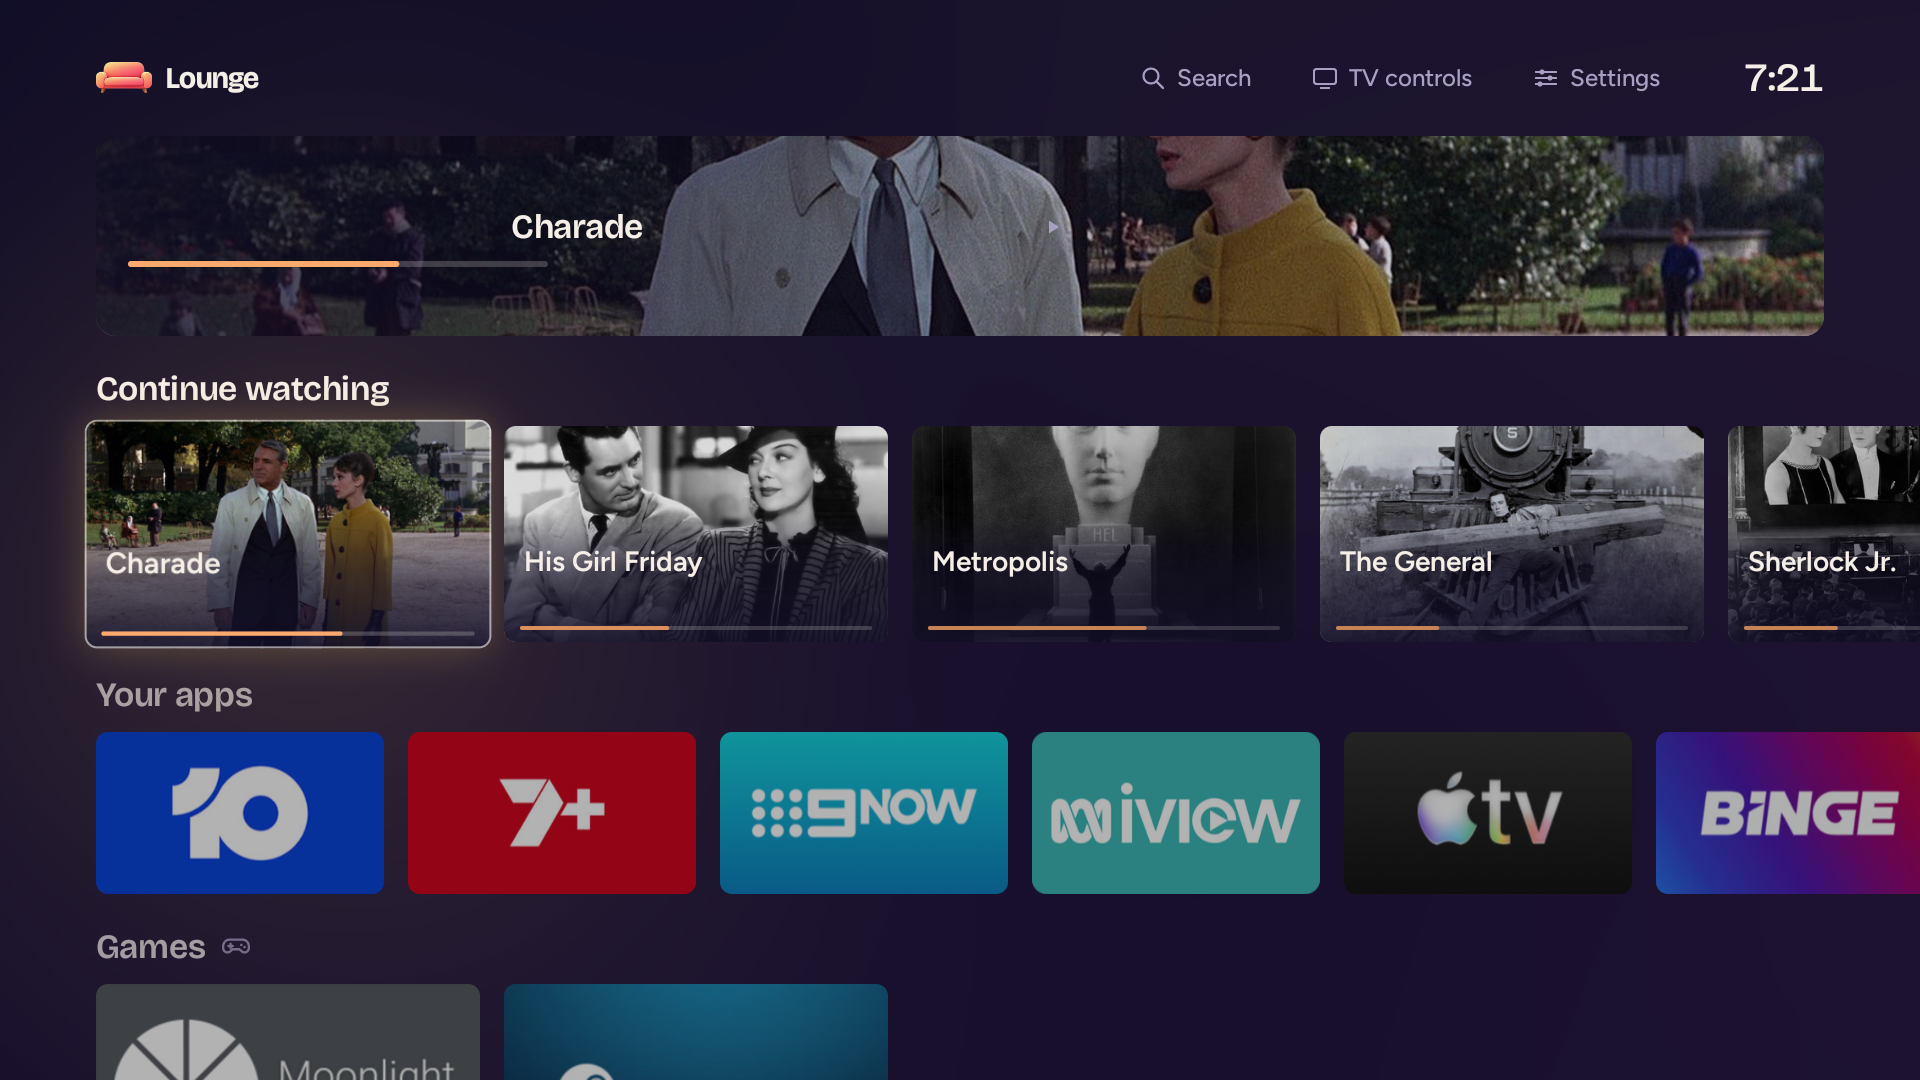
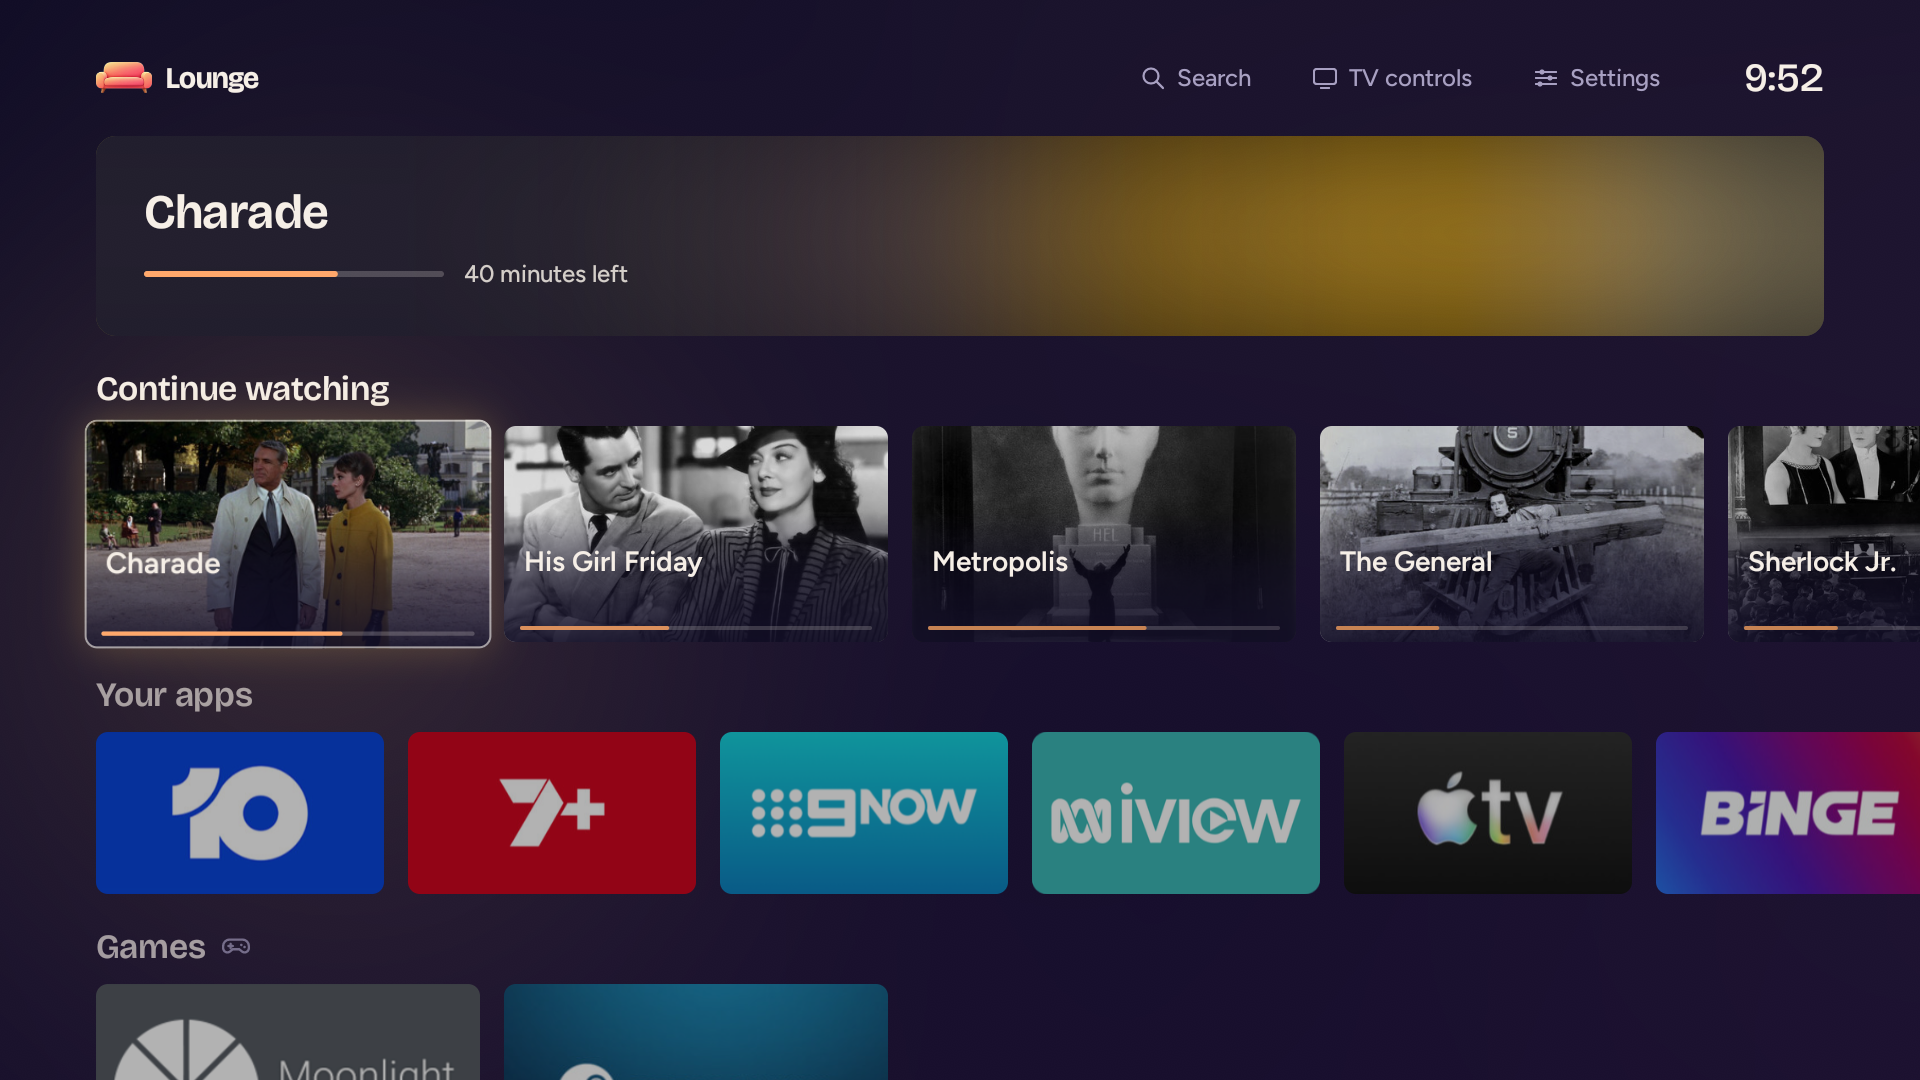
Retake the screenshots that show the lowered Stage

Changed region(s): [[0.0625, 0.1222, 0.9688, 0.3361], [0.0625, 0.1833, 0.2188, 0.2139], [0.9062, 0.0611, 0.9688, 0.0917]]

diff --git a/README.md b/README.md
@@ -124,7 +124,7 @@ also run behind the home screen, dimmed so the tiles stay the brightest thing in
 it the home screen, pairing a phone, done. Every one is reachable again from Settings.
 
 <p align="center">
-  <img src="docs/screenshots/rows.png" width="49%" alt="The Stage lowered to a band with the rows below it: Continue watching, Your apps, Games">
+  <img src="docs/screenshots/rows.png" width="49%" alt="The Stage lowered to a band of its picture's own light, with the rows below it: Continue watching, Your apps, Games">
   <img src="docs/screenshots/tile-menu.png" width="49%" alt="The long-press menu beside a tile, with Pin to Stage and Hide, and the room dimmed around it">
 </p>
 
